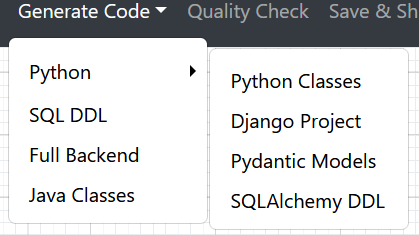
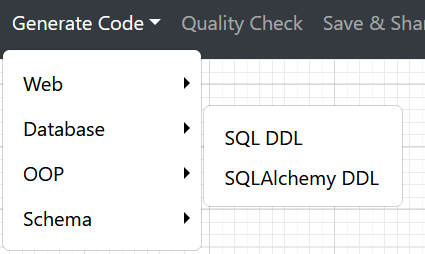
Update JSON Schema Generator documentation formatting and replace generator menu image

diff --git a/docs/source/api/generators/api_jsonschema.rst b/docs/source/api/generators/api_jsonschema.rst
@@ -1,5 +1,5 @@
 JSON Schema Generator
-====================
+======================
 
 .. automodule:: besser.generators.json.json_schema_generator
    :members:
